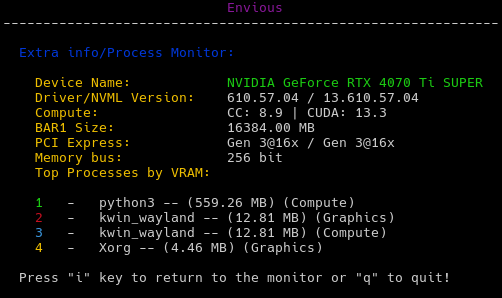
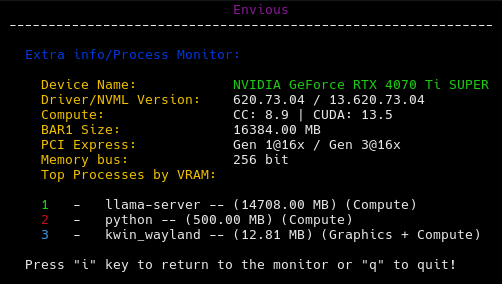
Update pm screenshot

diff --git a/README.md b/README.md
@@ -35,5 +35,5 @@ sudo envious --interactive
 man envious  # For full command list!
 ```
 <div align="center">
-  <img src="pm_screenshot.png?version=2" alt="Envious Process Monitor and Extra Info" />
+  <img src="pm_screenshot.png?version=3" alt="Envious Process Monitor and Extra Info" />
 </div>
